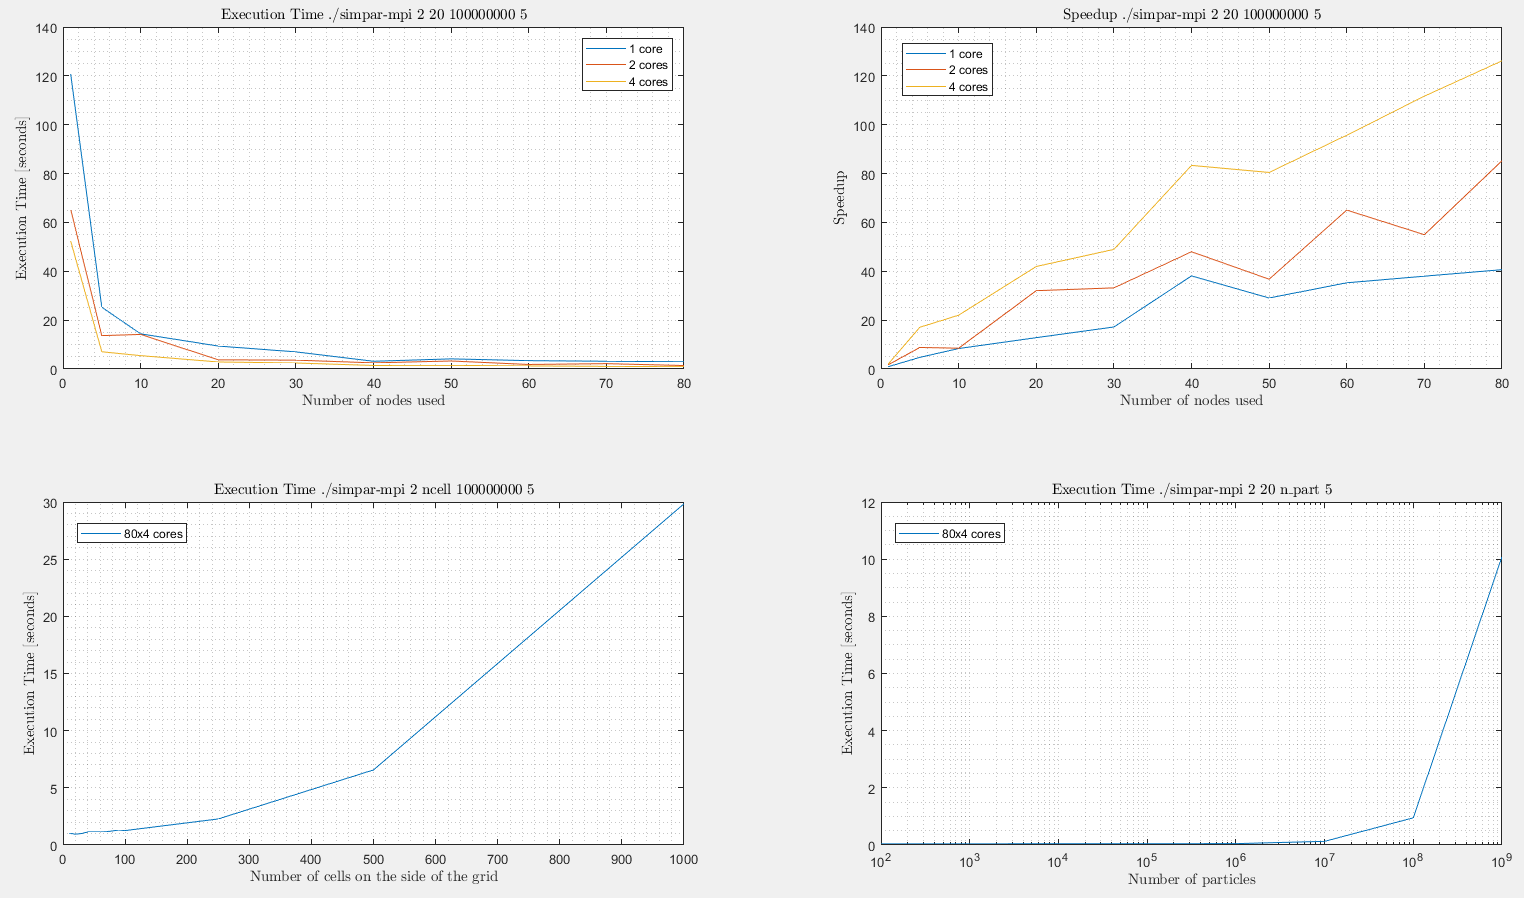
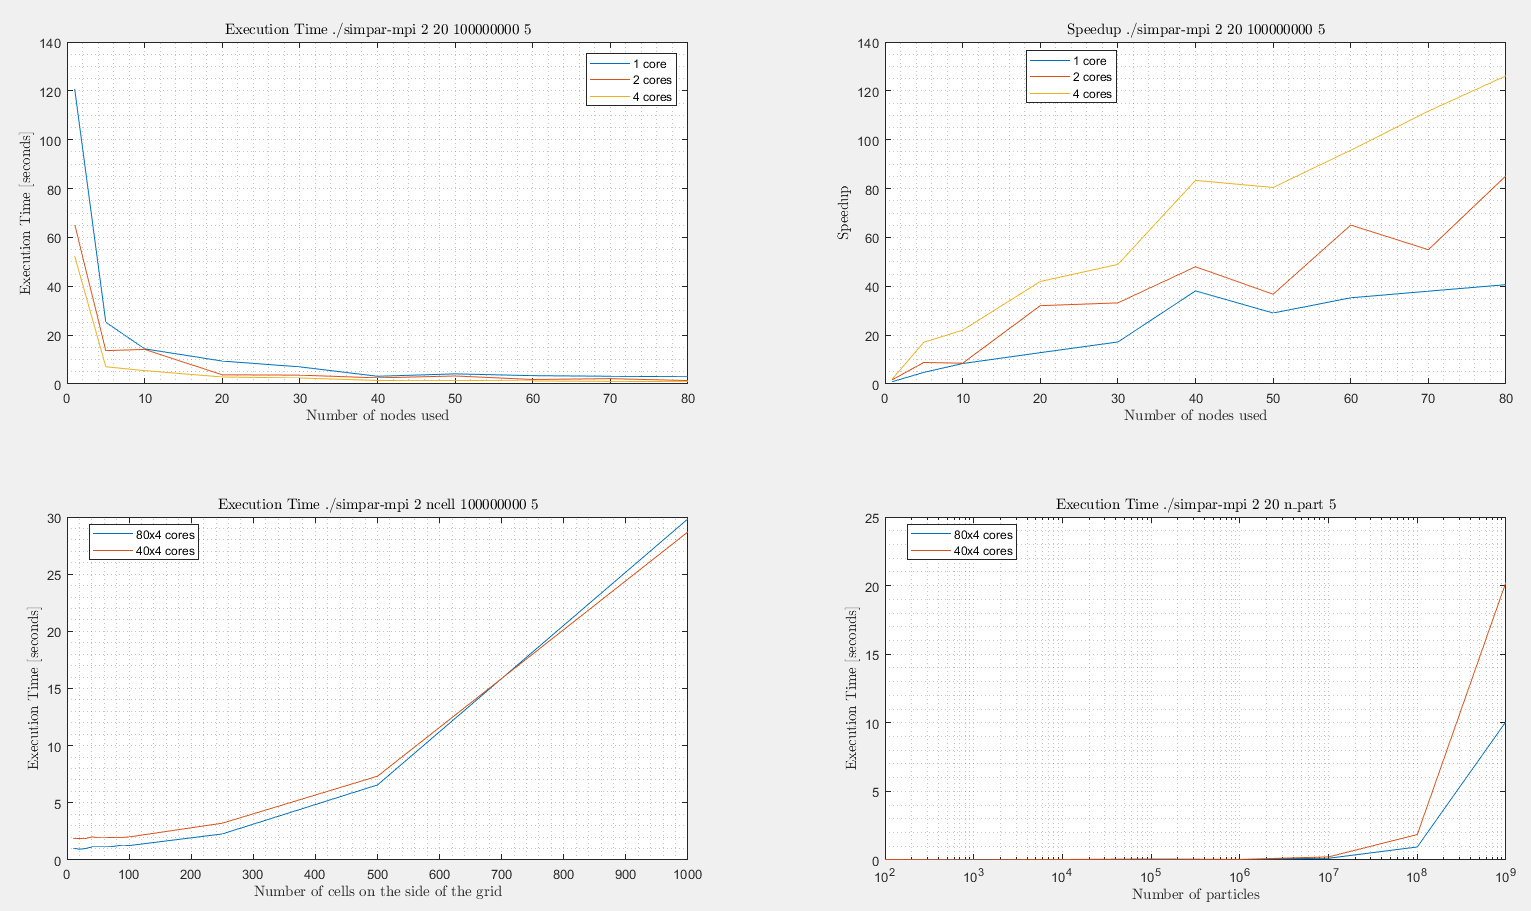
final tests

diff --git a/Test_mpi/test_graph.m b/Test_mpi/test_graph.m
@@ -241,24 +241,36 @@ cell =  [10 20 30 40 50 60 70 90 100 250 500 1000];
 time_cell = [1.037982  0.947220 1.001730 1.144673 1.148975 1.142921 ...
     1.160260 1.307613 1.261375 2.277810 6.566298 29.842344];
 
+time_cell2 = [1.900058 1.877507 1.872214 2.022528 1.947028 1.935300 ...
+    1.971853 1.977348 2.018427 3.218761 7.329504 28.701657];
+
 figure(1)
 ax3 = subplot(2,2,3);
 plot(cell, time_cell)
+hold on
+
+plot(cell, time_cell2)
 hold on
 
 grid minor
 title('Execution Time ./simpar-mpi 2 ncell 100000000 5','Interpreter', 'Latex');
 ylabel('Execution Time [seconds]', 'Interpreter', 'Latex');
 xlabel('Number of cells on the side of the grid','Interpreter', 'Latex');
-legend('80x4 cores', 'Location','Best');
+legend('80x4 cores','40x4 cores', 'Location','Best');
 
 part = [100 1000 10000 100000 1000000 10000000 100000000 1000000000];
 part_time = [0.040357  0.041093 0.042062 0.043754 0.047186 0.127850 ...
     0.950324 10.089763];
 
+part_time2 = [0.038241 0.064715 0.036913 0.077978 0.043558 0.226716 ...
+    1.854492 20.256713];
+
 figure(1)
 ax4 = subplot(2,2,4);
 plot(part, part_time)
+hold on
+
+plot(part, part_time2)
 hold on
 
 grid minor
@@ -266,7 +278,7 @@ title('Execution Time ./simpar-mpi 2 20 n\_part 5','Interpreter', 'Latex');
 ylabel('Execution Time [seconds]', 'Interpreter', 'Latex');
 xlabel('Number of particles','Interpreter', 'Latex');
 set(gca, 'XScale', 'log');
-legend('80x4 cores', 'Location','Best');
+legend('80x4 cores','40x4 cores', 'Location','Best');
 
 
 
